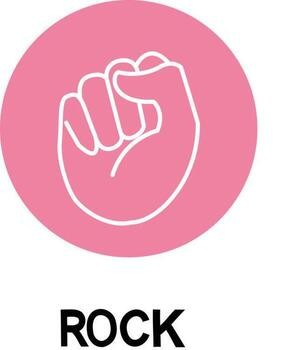
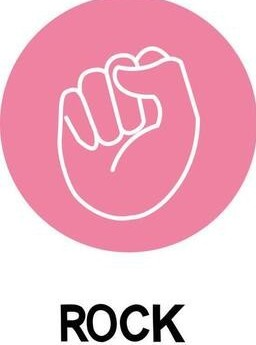
feat: added more features

diff --git a/style.css b/style.css
@@ -1,120 +1,67 @@
 * {
-  margin: 0;
-  padding: 0;
-  box-sizing: border-box;
-  text-align: center;
-}
-
-body {
-  width: 100%;
-  overflow-x: hidden;
+margin: 0;
+padding: 0;
+text-align: center;
 }
 
 h1 {
-  background-color: #081b31;
-  color: #fff;
-  height: auto;
-  min-height: 5rem;
-  line-height: 5rem;
-  font-size: 2rem;
-  padding: 0 1rem;
-}
-
-.choices {
-  display: flex;
-  justify-content: center;
-  align-items: center;
-  gap: 2rem;
-  margin-top: 4rem;
-  flex-wrap: wrap;
+    background-color: #081b31;
+    color: #fff;
+    height: 5rem;
+    text-align: center;
+    line-height:5rem ;
 }
 
 .choice {
-  height: 140px;
-  width: 140px;
-  border-radius: 50%;
-  display: flex;
-  justify-content: center;
-  align-items: center;
+    height: 165px;
+    width: 165px;
+    border-radius:50% ;
+    display: flex;
+    justify-content: center;
+    align-items: center;
 }
 
 .choice:hover {
-  cursor: pointer;
-  background-color: #081b31;
+    cursor: pointer;
+    background-color: #081b31;
 }
 
 img {
-  height: 120px;
-  width: 120px;
-  object-fit: cover;
-  border-radius: 50%;
+    height: 150px;
+    width: 150px;
+}
+
+.choices {
+    display: flex;
+    justify-content: center;
+    align-items: center;
+    gap: 3rem;
+    margin-top: 5rem;
 }
 
 .score-board {
-  display: flex;
-  justify-content: center;
-  align-items: center;
-  font-size: 1.5rem;
-  margin-top: 3rem;
-  gap: 3rem;
-  flex-wrap: wrap;
+    display: flex;
+    justify-content: center;
+    align-items: center;
+    font-size: 2rem;
+    margin-top: 3rem;
+    gap: 5rem;
 }
 
-#user-score,
-#comp-score {
-  font-size: 3rem;
+#user-score, #comp-score {
+  font-size: 4rem;
 }
 
 .msg-container {
-  margin-top: 4rem;
-  padding: 0 1rem;
+    margin-top: 5rem;
 }
 
 #msg {
-  background-color: #081b31;
-  color: #fff;
-  font-size: 1.5rem;
-  display: inline-block;
-  padding: 1rem 1.5rem;
-  border-radius: 1rem;
-  margin-top: 2rem;
-}
-
-/* Mobile Responsive */
-@media (max-width: 600px) {
-  h1 {
-    font-size: 1.5rem;
-    line-height: normal;
-    padding: 1rem;
-  }
-
-  .choices {
-    gap: 1rem;
-    margin-top: 2rem;
-  }
-
-  .choice {
-    height: 100px;
-    width: 100px;
-  }
-
-  img {
-    height: 80px;
-    width: 80px;
-  }
-
-  .score-board {
-    font-size: 1.2rem;
-    gap: 2rem;
-  }
-
-  #user-score,
-  #comp-score {
+    margin-top: 5rem;
+    background-color: #081b31;
+    color: #fff;
     font-size: 2rem;
-  }
-
-  #msg {
-    font-size: 1rem;
-    padding: 0.8rem 1rem;
-  }
+    display: inline;
+    padding: 1rem;
+    border-radius: 1rem;
 }
